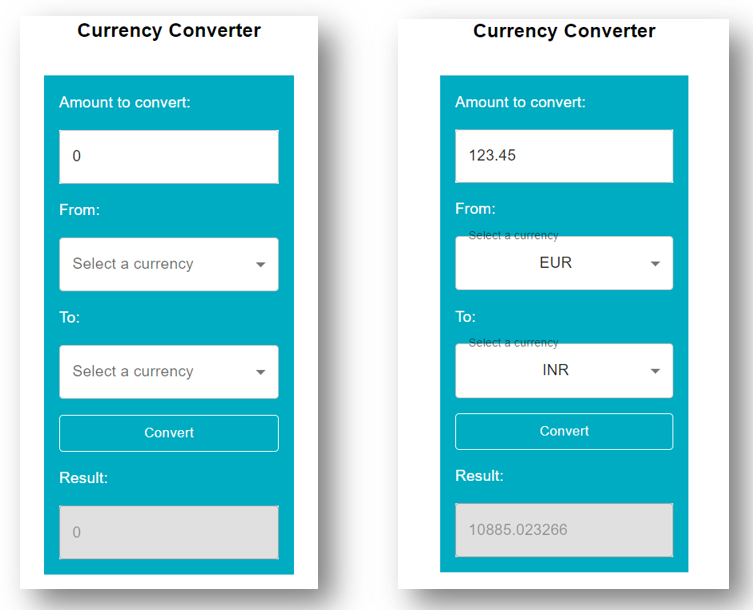
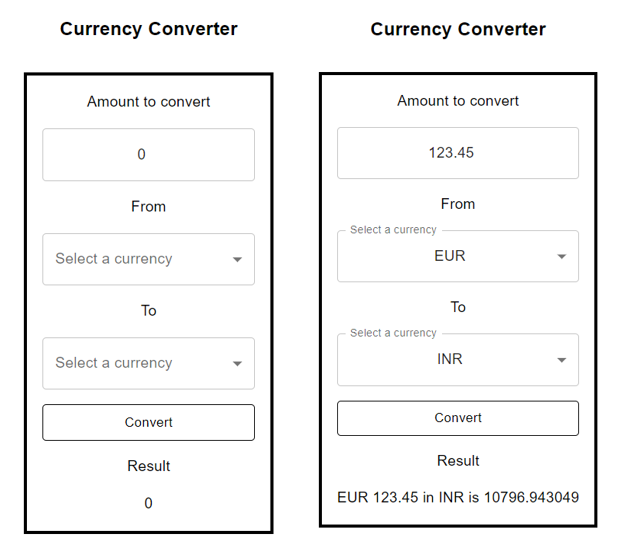
feat: :sparkles: add validations, update docs and improve UI

diff --git a/src/CurrencyConverter/index.tsx b/src/CurrencyConverter/index.tsx
@@ -4,7 +4,12 @@ import { Currency } from "../models/currency";
 import { convert, getAllCurrencies } from "../requests";
 import Amount from "./Amount";
 import CurrencySelector from "./CurrencySelector";
-import Result from "./Result";
+import Notification from "./Notification";
+
+interface Notification {
+  isOpen: boolean;
+  message: string;
+}
 
 const CurrencyConverter = (): JSX.Element => {
   const [amount, setAmount] = useState<number>(0);
@@ -12,6 +17,12 @@ const CurrencyConverter = (): JSX.Element => {
   const [fromCurrency, setFromCurrency] = useState("");
   const [toCurrency, setToCurrency] = useState("");
   const [result, setResult] = useState(0);
+  const defaultNotification = {
+    isOpen: false,
+    message: "",
+  };
+  const [notification, setNotification] =
+    useState<Notification>(defaultNotification);
 
   useEffect(() => {
     async function getCurrencies() {
@@ -26,47 +37,76 @@ const CurrencyConverter = (): JSX.Element => {
   };
 
   const handleConvertClick = async () => {
+    if (fromCurrency === "") {
+      setNotification({ isOpen: true, message: "Select 'From' currency" });
+      return;
+    }
+    if (toCurrency === "") {
+      setNotification({ isOpen: true, message: "Select 'TO' currency" });
+      return;
+    }
+    if (amount <= 0) {
+      setNotification({
+        isOpen: true,
+        message: "Select 'Amount' greater than zero",
+      });
+      return;
+    }
     setResult(await convert(amount, fromCurrency, toCurrency));
   };
 
+  const closeNotification = () => {
+    setNotification(defaultNotification);
+  };
+
+  const getResult = () => {
+    return result !== 0
+      ? `${fromCurrency} ${amount} in ${toCurrency} is ${result}`
+      : result;
+  };
+
   return (
-    <Grid container justifyContent="center" alignItems="center">
-      <Stack gap={4}>
-        <Typography fontWeight={700} fontSize={20}>
-          Currency Converter
-        </Typography>
-        <Stack gap={2} sx={{ backgroundColor: "#00acc1", padding: "16px" }}>
-          <Amount amount={amount} handleAmountChange={handleAmountChange} />
-          <Typography sx={{ color: "white", textAlign: "start" }}>
-            From:
+    <>
+      <Grid container justifyContent="center" alignItems="center">
+        <Stack gap={4}>
+          <Typography fontWeight={700} fontSize={20}>
+            Currency Converter
           </Typography>
-          <CurrencySelector
-            currencies={currencies}
-            selectedCurrency={fromCurrency}
-            onCurrencyChange={(value) => setFromCurrency(value)}
-          />
-          <Typography sx={{ color: "white", textAlign: "start" }}>
-            To:
-          </Typography>
-          <CurrencySelector
-            currencies={currencies}
-            selectedCurrency={toCurrency}
-            onCurrencyChange={(value) => setToCurrency(value)}
-          />
-          <Button
-            sx={{
-              color: "white",
-              textTransform: "inherit",
-              border: "1px solid white",
-            }}
-            onClick={handleConvertClick}
-          >
-            Convert
-          </Button>
-          <Result result={result} />
+          <Stack gap={2} sx={{ border: "4px solid black", padding: "16px" }}>
+            <Amount amount={amount} handleAmountChange={handleAmountChange} />
+            <Typography>From</Typography>
+            <CurrencySelector
+              currencies={currencies}
+              selectedCurrency={fromCurrency}
+              onCurrencyChange={(value) => setFromCurrency(value)}
+            />
+            <Typography>To</Typography>
+            <CurrencySelector
+              currencies={currencies}
+              selectedCurrency={toCurrency}
+              onCurrencyChange={(value) => setToCurrency(value)}
+            />
+            <Button
+              sx={{
+                textTransform: "inherit",
+                border: "1px solid black",
+                color: "black",
+              }}
+              onClick={handleConvertClick}
+            >
+              Convert
+            </Button>
+            <Typography>Result</Typography>
+            <Typography sx={{ display: "block" }}>{getResult()}</Typography>
+          </Stack>
         </Stack>
-      </Stack>
-    </Grid>
+      </Grid>
+      <Notification
+        isOpen={notification.isOpen}
+        message={notification.message}
+        closeNotification={closeNotification}
+      />
+    </>
   );
 };
 

diff --git a/src/CurrencyConverter/Notification.tsx b/src/CurrencyConverter/Notification.tsx
@@ -1,0 +1,62 @@
+import MuiAlert, { AlertProps } from "@mui/material/Alert";
+import Snackbar from "@mui/material/Snackbar";
+import React, { ReactElement } from "react";
+
+const Alert = React.forwardRef<HTMLDivElement, AlertProps>(function Alert(
+  props,
+  ref
+) {
+  return (
+    <MuiAlert
+      sx={{ minWidth: "30ch" }}
+      elevation={6}
+      ref={ref}
+      variant="filled"
+      {...props}
+    />
+  );
+});
+
+interface NotificationProps {
+  isOpen: boolean;
+  message: string;
+  closeNotification: VoidFunction;
+}
+
+function Notification({
+  isOpen,
+  message,
+  closeNotification,
+}: NotificationProps): ReactElement {
+  React.useEffect(() => {
+    const timeout = setTimeout(() => {
+      closeNotification();
+    }, 1000);
+
+    return () => {
+      clearTimeout(timeout);
+    };
+    // eslint-disable-next-line react-hooks/exhaustive-deps
+  }, []);
+
+  return (
+    <Snackbar
+      anchorOrigin={{
+        vertical: "bottom",
+        horizontal: "center",
+      }}
+      open={isOpen}
+      onClose={closeNotification}
+    >
+      <Alert
+        sx={{ cursor: "pointer" }}
+        onClick={closeNotification}
+        severity="error"
+      >
+        {message}
+      </Alert>
+    </Snackbar>
+  );
+}
+
+export default Notification;

diff --git a/src/CurrencyConverter/CurrencySelector.tsx b/src/CurrencyConverter/CurrencySelector.tsx
@@ -30,16 +30,17 @@ const CurrencySelector = ({
     <FormControl>
       <InputLabel>Select a currency</InputLabel>
       <Select
+        label="Select a currency"
         value={selectedCurrency}
         onChange={handleChange}
-        sx={{ backgroundColor: "white" }}
+        sx={{ backgroundColor: "white", textAlign: "center" }}
         renderValue={(selected) => <Typography>{selected}</Typography>}
       >
         {currencies.map(({ key, value }) => (
           <MenuItem key={key} value={key}>
             <Typography>{key}</Typography>
             <Tooltip title={value} placement="bottom" arrow>
-              <IconButton sx={{ color: "#4fc4a2" }}>
+              <IconButton sx={{ color: "black" }}>
                 <InformationIcon fontSize="small" />
               </IconButton>
             </Tooltip>

diff --git a/src/CurrencyConverter/Amount.tsx b/src/CurrencyConverter/Amount.tsx
@@ -13,12 +13,13 @@ const Amount = ({ amount, handleAmountChange }: AmountProps): JSX.Element => {
 
   return (
     <>
-      <Typography sx={{ color: "white", textAlign: "start" }}>
-        Amount to convert:
-      </Typography>
+      <Typography>Amount to convert</Typography>
       <TextField
         type="Number"
-        sx={{ backgroundColor: "white" }}
+        inputProps={{
+          min: 0,
+          style: { textAlign: "center", backgroundColor: "white" },
+        }}
         value={amount}
         onChange={handleInputChange}
       />

diff --git a/README.md b/README.md
@@ -1,6 +1,6 @@
 # Currency Converter
 
-A simple app written in ReactJS and Typescript for currency conversion. It uses Currency Data API from [apilayer/currency_data-api](https://apilayer.com/marketplace/currency_data-api).
+A simple app written in React and TypeScript for currency conversion. It uses Currency Data API from [apilayer/currency_data-api](https://apilayer.com/marketplace/currency_data-api).
 
 Note: Access to the API requires an access key. You can sign up at [apilayer](https://apilayer.com/) and subscribe to Currency Data API for a free API key.
 Once you have the API key, you can update the headers variable in `src/requests.ts`.
